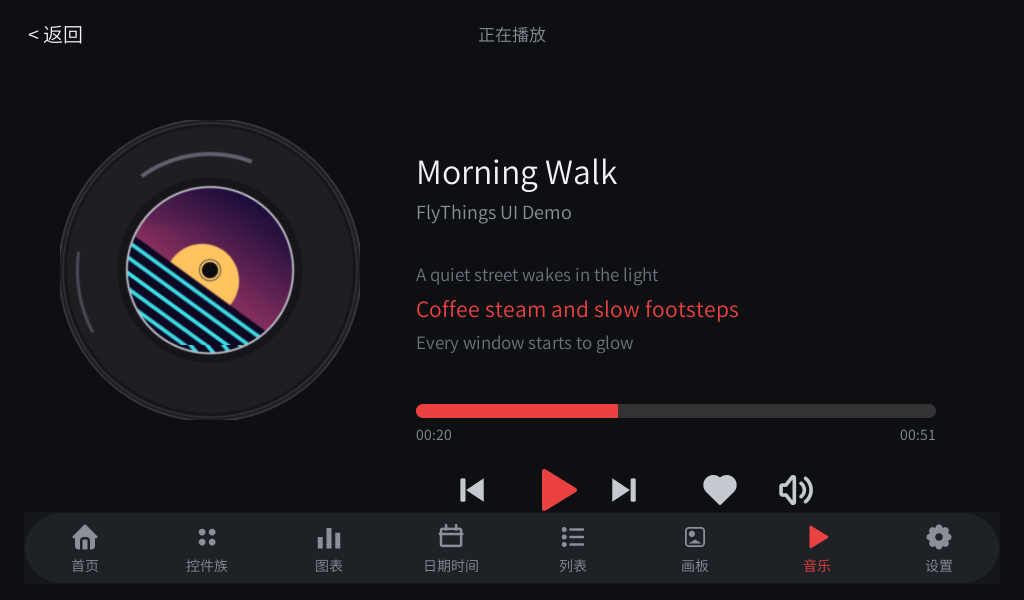
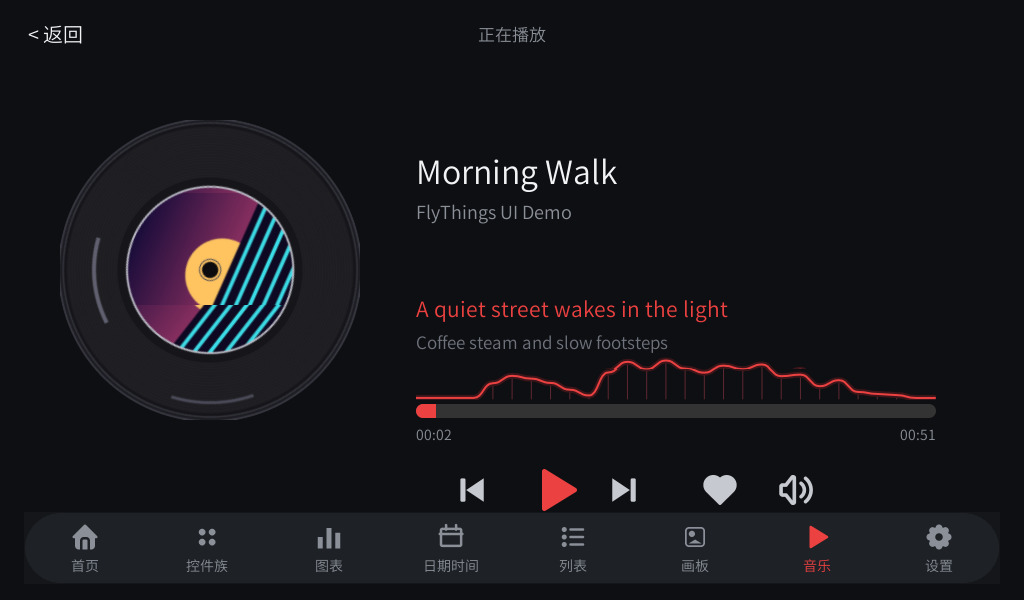
feat(music): 加实时频谱曲线（离线分析真实音频 + 按播放位置回放）
- 音乐页歌词与进度条之间新增 painter 自绘频谱：频带竖线 + 光晕 + 曲线（页面强调色 #EC4141）
- 数据来源：对同一份音频离线做 STFT（tools/gen_assets_spectrum.py，28 对数频带 / 40fps / 按频带高分位归一），产物 resources/spectrum/*.bin 随资源部署；运行时按 getCurrentPosition() 索引帧回放，与真实音频严格同步、设备端零 FFT 开销
- 暂停即冻结、切歌换频谱；无频谱数据时退化为基线
- README（中英）更新 + 重拍音乐页截图/GIF（含频谱）

diff --git a/src/logic/musicLogic.cc b/src/logic/musicLogic.cc
@@ -9,6 +9,7 @@ INIT_UI_EVENT_BINDINGS
 #include "zk/zk_page_anim.h"
 #include "media/ZKMediaPlayer.h"
 #include <stdio.h>
+#include <stdlib.h>
 #include <string.h>
 #include <unistd.h>
 
@@ -26,6 +27,11 @@ INIT_UI_EVENT_BINDINGS
  *
  * 唱片：pointer 控件（pointerPic = 黑胶图），调用方定时器驱动 setTargetAngle
  *      持续累加角度 → 匀速旋转；暂停即停转。三首歌各一张唱片，按可见性切换。
+ *
+ * 频谱：painter 自绘曲线。设备端 ZKMediaPlayer 不暴露 PCM（没法在 App 里做 FFT），
+ *      所以频谱是**在 PC 侧对同一份音频离线分析**（tools/gen_assets_spectrum.py）
+ *      出来的 28 频带 × 40fps 数据，运行时按 `getCurrentPosition()` 索引帧回放 ——
+ *      与真实音频严格同步（拖动进度也会跟着跳），设备端零 FFT 开销。
  * ========================================================================== */
 
 static ZKMediaPlayer *sPlayer = nullptr;
@@ -44,16 +50,17 @@ struct MuTrack {
     const char *title;
     const char *artist;
     const char *file;      /* 文件名，配合下面的目录候选解析 */
+    const char *spec;      /* 频谱数据（离线分析同一份音频） */
     int         lyrAt[4];  /* 每句歌词起始时间 ms（与素材时长对齐） */
     const char *lyr[4];
 };
 
 static const MuTrack kTracks[3] = {
-    {"Morning Walk", "FlyThings UI Demo", "demo_01.mp3", {0, 12000, 26000, 38000},
+    {"Morning Walk", "FlyThings UI Demo", "demo_01.mp3", "spectrum/spec_1.bin", {0, 12000, 26000, 38000},
      {"A quiet street wakes in the light", "Coffee steam and slow footsteps", "Every window starts to glow", "Walk with me, we are in no hurry"}},
-    {"Pixel Run", "FlyThings UI Demo", "demo_02.mp3", {0, 10000, 22000, 33000},
+    {"Pixel Run", "FlyThings UI Demo", "demo_02.mp3", "spectrum/spec_2.bin", {0, 10000, 22000, 33000},
      {"Press start, the screen comes alive", "Eight bit colors on the run", "Jump the gaps and keep the beat", "One more round before the sun"}},
-    {"Night Drive", "FlyThings UI Demo", "demo_03.mp3", {0, 14000, 30000, 44000},
+    {"Night Drive", "FlyThings UI Demo", "demo_03.mp3", "spectrum/spec_3.bin", {0, 14000, 30000, 44000},
      {"City lights behind the glass", "Radio low, the road is long", "Neon rivers passing by", "Drive until the night runs out"}},
 };
 
@@ -63,6 +70,13 @@ static const char *kDirs[] = {
     "/mnt/extsd/ui/music/",   /* 随工程资源部署（resources/music/） */
     "/mnt/extsd/music/",      /* 用户自备 */
     "/mnt/usb1/music/",
+    "/mnt/usb1/",
+};
+
+/* 频谱数据的根目录候选（路径形如 <root>spectrum/spec_N.bin） */
+static const char *kSpecDirs[] = {
+    "/mnt/extsd/ui/",         /* 随工程资源部署（resources/spectrum/） */
+    "/mnt/extsd/",
     "/mnt/usb1/",
 };
 
@@ -118,6 +132,98 @@ static void muApplyProgress() {
     if (mMuTimeAllPtr) mMuTimeAllPtr->setText(buf);
 }
 
+/* ------------------------------ 频谱（离线分析的真实频谱，按播放位置回放） ------------------------------ */
+
+static unsigned char *sSpec = nullptr;   /* 文件头 12B + frames*bands 数据 */
+static int   sSpecBands = 0;
+static int   sSpecFps100 = 0;
+static int   sSpecFrames = 0;
+static float sSpecDisp[32];              /* 显示用平滑值 */
+static const int kSpecW = 520;           /* 与 ui 里 painter__1 尺寸一致 */
+static const int kSpecH = 44;
+
+static void muSpecReset() {
+    for (int i = 0; i < 32; ++i) sSpecDisp[i] = 0.0f;
+}
+
+static void muLoadSpec() {
+    if (sSpec) { free(sSpec); sSpec = nullptr; }
+    sSpecBands = sSpecFps100 = sSpecFrames = 0;
+    muSpecReset();
+
+    char path[160];
+    for (unsigned d = 0; d < sizeof(kSpecDirs) / sizeof(kSpecDirs[0]); ++d) {
+        snprintf(path, sizeof(path), "%s%s", kSpecDirs[d], kTracks[sIdx].spec);
+        FILE *fp = fopen(path, "rb");
+        if (!fp) continue;
+        unsigned char hdr[12];
+        if (fread(hdr, 1, 12, fp) != 12 || memcmp(hdr, "ZKS1", 4) != 0) { fclose(fp); continue; }
+        int bands  = hdr[4] | (hdr[5] << 8);
+        int fps100 = hdr[6] | (hdr[7] << 8);
+        int frames = hdr[8] | (hdr[9] << 8) | (hdr[10] << 16) | (hdr[11] << 24);
+        if (bands < 2 || bands > 32 || frames < 1) { fclose(fp); continue; }
+        size_t n = (size_t) bands * frames;
+        unsigned char *buf = (unsigned char *) malloc(n + 12);
+        if (!buf) { fclose(fp); continue; }
+        memcpy(buf, hdr, 12);
+        size_t got = fread(buf + 12, 1, n, fp);
+        fclose(fp);
+        if (got != n) { free(buf); continue; }
+        sSpec = buf; sSpecBands = bands; sSpecFps100 = fps100; sSpecFrames = frames;
+        LOGD("music: spectrum %s (%d bands x %d frames)", path, bands, frames);
+        return;
+    }
+    LOGD("music: spectrum not found for #%d (flat line)", sIdx + 1);
+}
+
+static void muDrawSpec() {
+    if (!mSpecPtr) return;
+    const unsigned int kColBody   = 0xEC4141;   /* 主色（同页面强调色） */
+    const unsigned int kColBar    = 0x5E2730;   /* 频带竖线（暗） */
+    const unsigned int kColGlow   = 0x3A1519;   /* 曲线光晕（更粗、更暗） */
+
+    mSpecPtr->erase(0, 0, kSpecW, kSpecH);
+
+    if (!sSpec || sSpecBands < 2) {             /* 无频谱数据：只画基线 */
+        SZKPoint base[2];
+        base[0].x = 0.0f;              base[0].y = (float)(kSpecH - 1);
+        base[1].x = (float)(kSpecW - 1); base[1].y = (float)(kSpecH - 1);
+        mSpecPtr->setLineWidth(1);
+        mSpecPtr->setSourceColor(kColBar);
+        mSpecPtr->drawLines(base, 2);
+        return;
+    }
+
+    int frame = (int)((long long) sPosMs * sSpecFps100 / 100000);
+    if (frame < 0) frame = 0;
+    if (frame >= sSpecFrames) frame = sSpecFrames - 1;
+    const unsigned char *row = sSpec + 12 + (size_t) frame * sSpecBands;
+
+    SZKPoint pts[32];
+    for (int i = 0; i < sSpecBands; ++i) {
+        float t = row[i] / 255.0f;
+        sSpecDisp[i] += (t - sSpecDisp[i]) * 0.55f;   /* 轻平滑：不跟每帧跳 */
+        if (sSpecDisp[i] < 0.0f) sSpecDisp[i] = 0.0f;
+        pts[i].x = (float)(i * (kSpecW - 1)) / (float)(sSpecBands - 1);
+        pts[i].y = (float)(kSpecH - 2) - sSpecDisp[i] * (float)(kSpecH - 6);
+    }
+
+    mSpecPtr->setLineWidth(1);                    /* 1) 频带竖线 */
+    mSpecPtr->setSourceColor(kColBar);
+    for (int i = 0; i < sSpecBands; ++i) {
+        SZKPoint v[2];
+        v[0] = pts[i]; v[0].y = (float)(kSpecH - 1);
+        v[1] = pts[i];
+        mSpecPtr->drawLines(v, 2);
+    }
+    mSpecPtr->setSourceColor(kColGlow);           /* 2) 光晕 */
+    mSpecPtr->setLineWidth(6);
+    mSpecPtr->drawCurve(pts, sSpecBands);
+    mSpecPtr->setSourceColor(kColBody);           /* 3) 曲线本体 */
+    mSpecPtr->setLineWidth(2);
+    mSpecPtr->drawCurve(pts, sSpecBands);
+}
+
 /* ------------------------------ 播放控制 ------------------------------ */
 
 static void muResolveFiles() {
@@ -144,6 +250,8 @@ static void muPlayFrom(int idx, int fromMs) {
     muApplyTrackText();
     muApplyProgress();
     muApplyLyric();
+    muLoadSpec();                    /* 换曲目 = 换频谱数据 */
+    muDrawSpec();
 
     if (sPlayer && sHaveFile[sIdx]) {
         sPlayer->play(sPath[sIdx], fromMs);   /* 真正开始播放 */
@@ -215,6 +323,8 @@ public:
             sPosMs = ms;
             muApplyProgress();
             muApplyLyric();
+            muSpecReset();
+            muDrawSpec();
         }
         sSeekTo = -1;
     }
@@ -242,6 +352,7 @@ static void zkAnimInit() {
     zk::PageAnim::addSlideLeft2Right(mLyricCurPtr, 440, 300);
     zk::PageAnim::addSlideLeft2Right(mLyricNextPtr, 440, 300);
     zk::PageAnim::addSlideLeft2Right(mMuProgressPtr, 440, 380);
+    zk::PageAnim::addSlideLeft2Right(mSpecPtr, 440, 380);
     zk::PageAnim::addSlideLeft2Right(mBtn_prevPtr, 420, 460);
     zk::PageAnim::addSlideLeft2Right(mBtn_playPtr, 420, 460);
     zk::PageAnim::addSlideLeft2Right(mBtn_nextPtr, 420, 460);
@@ -268,6 +379,7 @@ static void onUI_init() {
     muApplyTrackText();
     muApplyProgress();
     muApplyLyric();
+    muDrawSpec();
 }
 
 static void onUI_intent(const Intent *intentPtr) {}
@@ -321,6 +433,7 @@ static bool onUI_Timer(int id) {
             sAngle += 7.0f;             /* 40ms × 7° ≈ 2.0 s/圈 */
             if (sAngle >= 360.0f) sAngle -= 360.0f;
             muApplyAngle();
+            muDrawSpec();               /* 频谱跟播放位置走（暂停就不重绘 = 冻结） */
         }
     } else if (id == 0) {               /* 进度 / 歌词 */
         if (sPlaying) {

diff --git a/tools/gen_assets_spectrum.py b/tools/gen_assets_spectrum.py
@@ -1,0 +1,68 @@
+# -*- coding: utf-8 -*-
+"""从 MP3 离线算频谱（真实音频分析）→ 紧凑二进制给设备按播放位置回放。
+
+为什么要离线算：设备上 ZKMediaPlayer 不暴露 PCM，没法在 App 里做 FFT；
+本工程三首曲子是我们自己合成的，**在 PC 侧算出真实频谱**，运行时按 `getCurrentPosition()`
+索引帧回放即可 —— 频谱与真实音频严格同步（拖进度也会跟着跳），且设备端零 FFT 开销。
+
+文件格式：'ZKS1' + u16 bands + u16 fps100 + u32 frames + u32 reserved，随后 frames*bands 个 uint8。
+"""
+import os, struct, subprocess
+import numpy as np
+
+FF = r'C:\Users\zkswe\AppData\Local\Microsoft\WinGet\Packages\Gyan.FFmpeg.Essentials_Microsoft.Winget.Source_8wekyb3d8bbwe\ffmpeg-8.1.1-essentials_build\bin\ffmpeg.exe'
+SR = 44100
+NFFT = 2048
+HOP = 1102           # ≈ 40 fps
+BANDS = 28
+F_LO, F_HI = 60.0, 16000.0
+PROJ = r'C:\Users\zkswe\.openclaw\workspace\projects\UIShowcase-Z21'
+OUT = os.path.join(PROJ, 'resources', 'spectrum')
+os.makedirs(OUT, exist_ok=True)
+
+
+def decode(path):
+    raw = subprocess.run([FF, '-v', 'error', '-i', path, '-f', 'f32le', '-ac', '1', '-ar', str(SR), '-'],
+                         capture_output=True, check=True).stdout
+    return np.frombuffer(raw, dtype=np.float32)
+
+
+def spectrum(x):
+    n = 1 + (len(x) - NFFT) // HOP
+    idx = np.arange(NFFT)[None, :] + HOP * np.arange(n)[:, None]
+    win = np.hanning(NFFT).astype(np.float32)
+    X = np.abs(np.fft.rfft(x[idx] * win, axis=1))
+    freqs = np.fft.rfftfreq(NFFT, 1.0 / SR)
+    edges = np.geomspace(F_LO, F_HI, BANDS + 1)
+    out = np.zeros((n, BANDS), np.float32)
+    for i in range(BANDS):
+        m = (freqs >= edges[i]) & (freqs < edges[i + 1])
+        if m.any():
+            out[:, i] = X[:, m].mean(axis=1)
+    # 转 dB → 每条频带按自身 97 分位归一（低/高频都活起来）→ 42dB 动态范围
+    db = 20.0 * np.log10(out + 1e-9)
+    ref = np.percentile(db, 97, axis=0)
+    v = np.clip((db - (ref - 42.0)) / 42.0, 0.0, 1.0) ** 0.85
+    k = np.hanning(5); k /= k.sum()
+    v = np.stack([np.convolve(v[:, i], k, mode='same') for i in range(BANDS)], axis=1)
+    return v
+
+
+def main():
+    fps100 = int(round(100.0 * SR / HOP))
+    for i in (1, 2, 3):
+        mp3 = os.path.join(PROJ, 'resources', 'music', 'demo_%02d.mp3' % i)
+        v = spectrum(decode(mp3))
+        data = (v * 255.0 + 0.5).astype(np.uint8)
+        path = os.path.join(OUT, 'spec_%d.bin' % i)
+        with open(path, 'wb') as f:
+            f.write(b'ZKS1')
+            f.write(struct.pack('<HHII', BANDS, fps100, data.shape[0], 0))
+            f.write(data.tobytes())
+        print('spec_%d.bin  frames=%-5d bands=%d fps=%.2f  %.1f KB  (能量 mean %.3f max %.3f)'
+              % (i, data.shape[0], BANDS, fps100 / 100.0, os.path.getsize(path) / 1024.0,
+                 v.mean(), v.max()))
+
+
+if __name__ == '__main__':
+    main()

diff --git a/README.en.md b/README.en.md
@@ -60,8 +60,8 @@ Dynamic data + image cache, with smooth scrolling and rebound:
 
 ![live waveform](showcase/waveform.gif)
 
-### Spinning vinyl with real audio playback
-On the real device the music page **actually plays audio**: the record spins while playing and stops the moment you pause, and both the progress bar and the lyrics follow the **real playback position**:
+### Spinning vinyl + spectrum (real audio playback)
+On the real device the music page **actually plays audio**: the record spins while playing and stops the moment you pause, the **spectrum curve is derived from the real audio** (tightly synced to the playback position), and both the progress bar and the lyrics follow the **real playback position**:
 
 ![music player](showcase/music.gif)
 
@@ -77,7 +77,7 @@ On the real device the music page **actually plays audio**: the record spins whi
 | **Date & time** | Digital clock, analog-style pointers, wheel pickers (Y/M/D, H/M/S), calendar (month flipping / selection) | <img src="showcase/pages/datetime.png" width="300"> |
 | **List / cover wall** | `listview` essentials; cover wall is a 2-column grid list with dynamic data + image cache | <img src="showcase/pages/list.png" width="300"> |
 | **Canvas** | Self-drawn painter: finger drawing, brush size/color, undo / clear / save | <img src="showcase/pages/image.png" width="300"> |
-| **Music** | Spinning vinyl + **real audio playback**: local MP3, pause / skip / scrub / mute, time-synced lyrics | <img src="showcase/pages/music.png" width="300"> |
+| **Music** | Spinning vinyl + **real audio playback**: local MP3, pause / skip / scrub / mute, time-synced lyrics + **live spectrum curve** | <img src="showcase/pages/music.png" width="300"> |
 | **Settings / about** | Switch group, segmented control, diagnostics, save / reset | <img src="showcase/pages/settings.png" width="300"> |
 
 ---
@@ -198,6 +198,7 @@ Install in one line: `git clone` the repo above and run `mcp_server.py` **from t
 - **Animation**: staggered slide-in choreography on page entry.
 - **Self-drawn**: charts and waveform redraw per frame; the canvas records strokes.
 - **Music playback**: real playback through `ZKMediaPlayer`. Z21 is a SigmaStar platform, so the audio path is the **MI_AO** channel (not ALSA). The vinyl is a `pointer` widget whose angle is advanced every frame while playing and stops on pause; progress and lyrics come from the player's real position. The three tracks are procedurally synthesised demos shipped in `resources/music/` and deployed with the app resources.
+- **Spectrum**: drawn with a `painter` (band lines + glow + curve). The device player does not expose PCM, so the spectrum is **analysed offline on the PC from the very same audio** (`tools/gen_assets_spectrum.py`: 28 log-spaced bands, 40 fps, per-band high-percentile normalisation) and shipped as compact data (`resources/spectrum/*.bin`) which the app replays by indexing frames at the real playback position — tightly synced to the audio, at zero on-device FFT cost.
 - **Asset generation**: icons and covers are generated to the exact widget box (rounded corners via coverage alpha, scaling via area averaging — no edge ringing).
 
 ### Known limitations

diff --git a/README.md b/README.md
@@ -60,8 +60,8 @@
 
 ![实时波形](showcase/waveform.gif)
 
-### 黑胶唱片旋转（真实音频播放）
-音乐页在**真机上真播音频**：唱片随播放匀速旋转、暂停即停；进度条与歌词都跟着**真实播放位置**走：
+### 黑胶唱片旋转 + 频谱（真实音频播放）
+音乐页在**真机上真播音频**：唱片随播放匀速旋转、暂停即停；**频谱曲线由真实音频分析得到**（与播放位置严格同步）；进度条与歌词也全部跟着真实播放位置走：
 
 ![音乐播放器](showcase/music.gif)
 
@@ -77,7 +77,7 @@
 | **日期时间** | 数字钟、表盘指针、滚轮选择器（年月日/时分秒）、日历（可翻月/可选中） | <img src="showcase/pages/datetime.png" width="300"> |
 | **列表 / 封面墙** | listview 三件套；封面墙为 2 列网格 listview（动态数据 + 图片缓存） | <img src="showcase/pages/list.png" width="300"> |
 | **画板** | 自绘 painter：手指绘制、粗细/颜色切换、撤销 / 清空 / 保存 | <img src="showcase/pages/image.png" width="300"> |
-| **音乐** | 黑胶唱片旋转 + **真实音频播放**：本地 MP3、暂停/切歌/拖动进度/静音，歌词按时间同步 | <img src="showcase/pages/music.png" width="300"> |
+| **音乐** | 黑胶唱片旋转 + **真实音频播放**：本地 MP3、暂停/切歌/拖动进度/静音、歌词按时间同步 + **实时频谱曲线** | <img src="showcase/pages/music.png" width="300"> |
 | **设置 / 关于** | 开关组、分段选择、诊断信息、保存 / 重置 | <img src="showcase/pages/settings.png" width="300"> |
 
 ---
@@ -198,6 +198,7 @@
 - **动画**：页面进入用统一的滑入编排（错峰 duration/delay）。
 - **自绘**：图表/波形按帧重绘；画板用 painter 记录笔画。
 - **音乐播放**：`ZKMediaPlayer` 真播。Z21 是 SigmaStar 平台，音频输出走 **MI_AO** 通道（不是 ALSA）；唱片用 `pointer` 控件逐帧累加角度实现匀速旋转，暂停即停；进度与歌词取自播放器的真实位置；三首素材为仓库内程序化合成的 demo 曲（`resources/music/`），随资源一起部署到设备。
+- **频谱**：`painter` 自绘（频带竖线 + 光晕 + 曲线）。设备端播放器不暴露 PCM，所以频谱是**在 PC 侧对同一份音频离线分析**（`tools/gen_assets_spectrum.py`：28 对数频带 / 40fps / 按频带自身高分位归一）得到的紧凑数据（`resources/spectrum/*.bin`），运行时按播放位置索引帧回放 —— 与真实音频严格同步，设备端零 FFT 开销。
 - **资源出图**：图标与封面按控件盒尺寸程序化生成（圆角走覆盖率 α，缩放用面积平均，避免边缘振铃）。
 
 ### 已知限制
